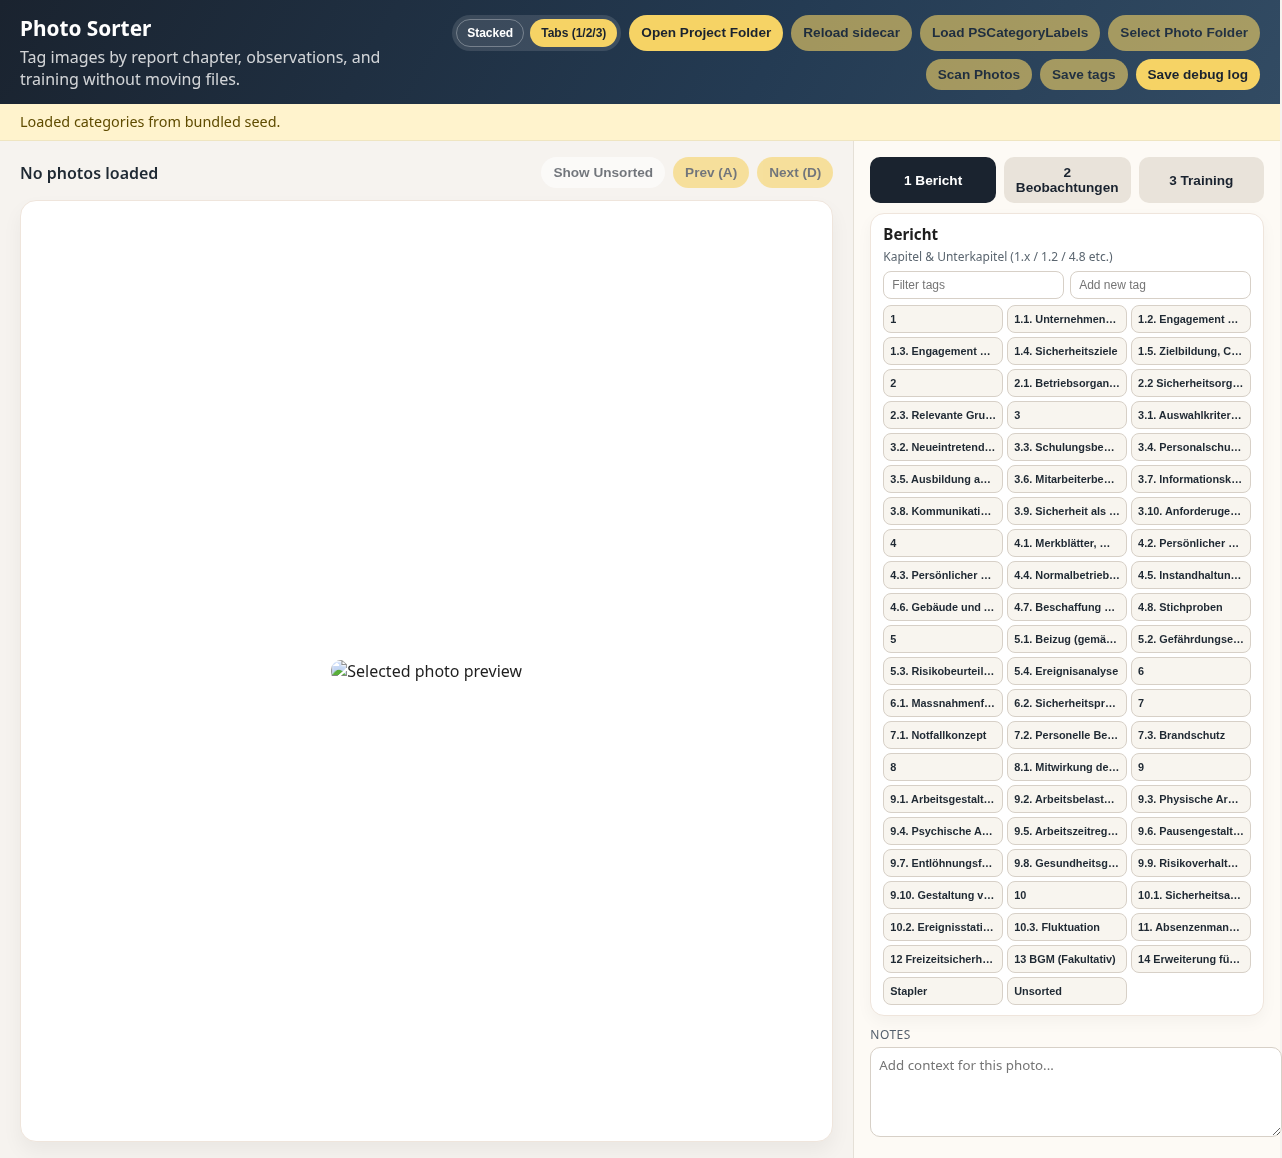
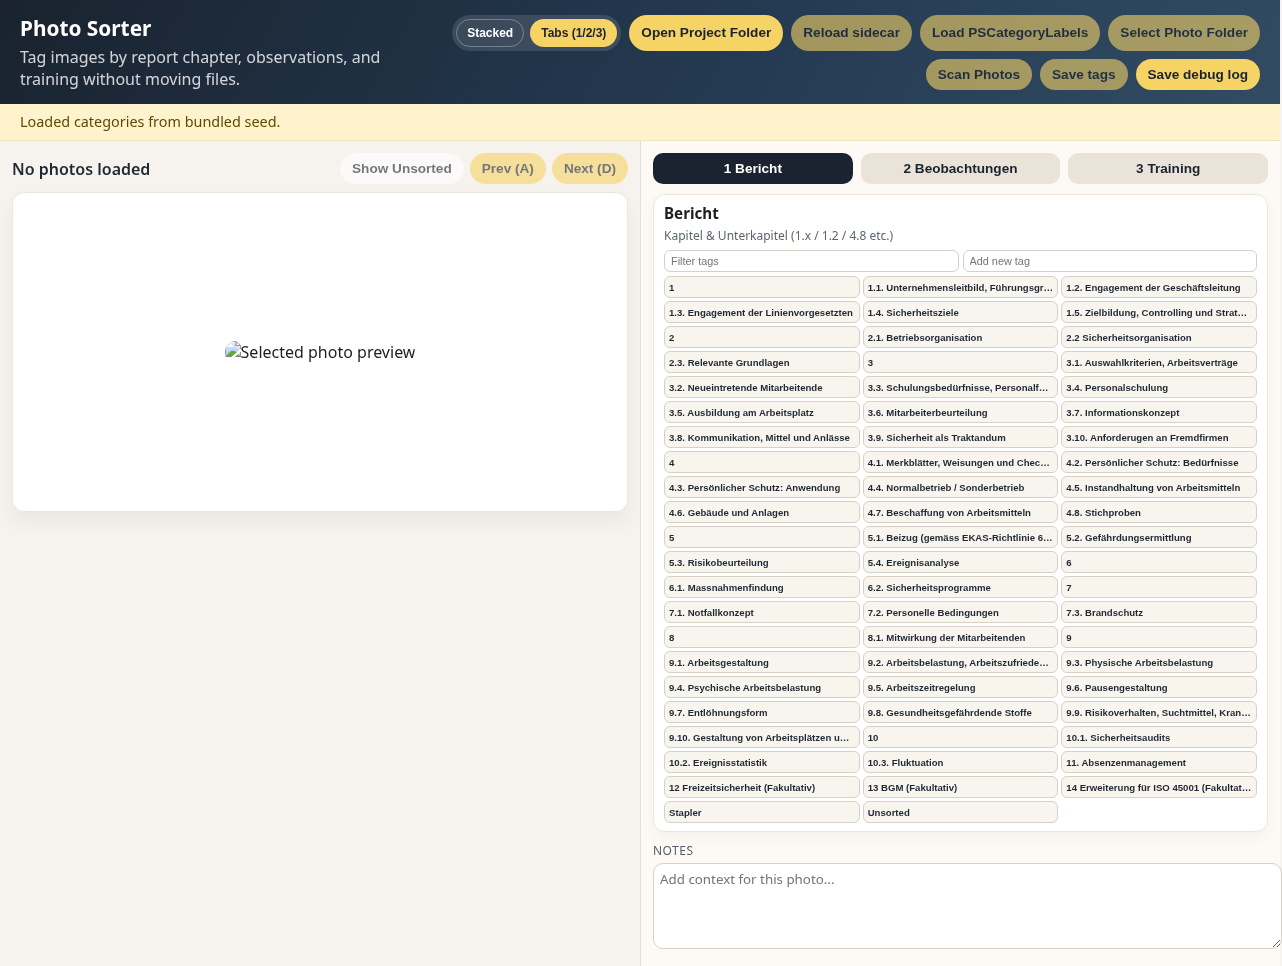
Tighten photo sorter density

diff --git a/AutoBericht/mini/photosorter.css b/AutoBericht/mini/photosorter.css
@@ -103,16 +103,16 @@ button[disabled] {
 
 .layout {
   display: grid;
-  grid-template-columns: minmax(0, 2fr) minmax(320px, 1fr);
+  grid-template-columns: minmax(0, 1fr) minmax(0, 1fr);
   flex: 1;
   min-height: 0;
 }
 
 .viewer {
-  padding: 16px 20px;
+  padding: 12px 12px;
   display: flex;
   flex-direction: column;
-  gap: 12px;
+  gap: 8px;
   min-height: 0;
 }
 
@@ -131,21 +131,21 @@ button[disabled] {
 
 .viewer__controls {
   display: flex;
-  gap: 8px;
+  gap: 6px;
   flex-wrap: wrap;
 }
 
 .viewer__image {
   background: #fff;
-  border-radius: 16px;
+  border-radius: 12px;
   border: 1px solid #efe5dc;
-  padding: 12px;
+  padding: 8px;
   display: flex;
   align-items: center;
   justify-content: center;
   box-shadow: 0 10px 20px rgba(0, 0, 0, 0.05);
-  flex: 1;
-  min-height: 0;
+  height: 42vh;
+  min-height: 260px;
 }
 
 .viewer__image img {
@@ -187,19 +187,19 @@ button[disabled] {
 }
 
 .sidebar {
-  padding: 16px;
+  padding: 12px;
   background: #fdfaf5;
   border-left: 1px solid #e5e0d7;
   display: grid;
   grid-template-rows: auto 1fr auto;
-  gap: 10px;
+  gap: 8px;
   min-height: 0;
 }
 
 .panel-row {
   display: grid;
   grid-template-columns: 1fr 1fr;
-  gap: 10px;
+  gap: 8px;
   min-height: 0;
 }
 
@@ -221,9 +221,9 @@ button[disabled] {
 
 .panel {
   background: #fff;
-  border-radius: 14px;
+  border-radius: 12px;
   border: 1px solid #efe5dc;
-  padding: 10px 12px;
+  padding: 8px 10px;
   box-shadow: 0 6px 16px rgba(0, 0, 0, 0.04);
   display: flex;
   flex-direction: column;
@@ -248,40 +248,40 @@ button[disabled] {
 .panel__controls {
   display: grid;
   grid-template-columns: 1fr 1fr;
-  gap: 6px;
-  margin-bottom: 6px;
+  gap: 4px;
+  margin-bottom: 4px;
 }
 
 .panel__controls input {
-  border-radius: 8px;
+  border-radius: 6px;
   border: 1px solid #d7d0c7;
-  padding: 6px 8px;
-  font-size: 0.75rem;
+  padding: 4px 6px;
+  font-size: 0.68rem;
 }
 
 .panel__tags {
   display: grid;
-  grid-template-columns: repeat(2, 1fr);
-  gap: 4px;
+  grid-template-columns: repeat(3, 1fr);
+  gap: 3px;
   align-content: start;
   overflow: hidden;
 }
 
 .panel--report .panel__tags {
-  grid-template-columns: repeat(3, 1fr);
+  grid-template-columns: repeat(5, 1fr);
 }
 
 .tag-button {
   border: 1px solid #d7d0c7;
   background: #f8f5ef;
   color: #1f2933;
-  border-radius: 8px;
-  padding: 4px 6px;
-  font-size: 0.68rem;
+  border-radius: 6px;
+  padding: 2px 4px;
+  font-size: 0.6rem;
   cursor: pointer;
   text-align: left;
   width: 100%;
-  min-height: 28px;
+  min-height: 22px;
   white-space: nowrap;
   overflow: hidden;
   text-overflow: ellipsis;
@@ -306,9 +306,9 @@ button[disabled] {
   width: 100%;
   border-radius: 10px;
   border: 1px solid #d7d0c7;
-  padding: 8px;
+  padding: 6px;
   font-family: "Segoe UI", system-ui, sans-serif;
-  min-height: 50px;
+  min-height: 42px;
 }
 
 body.layout-tabs .sidebar {
